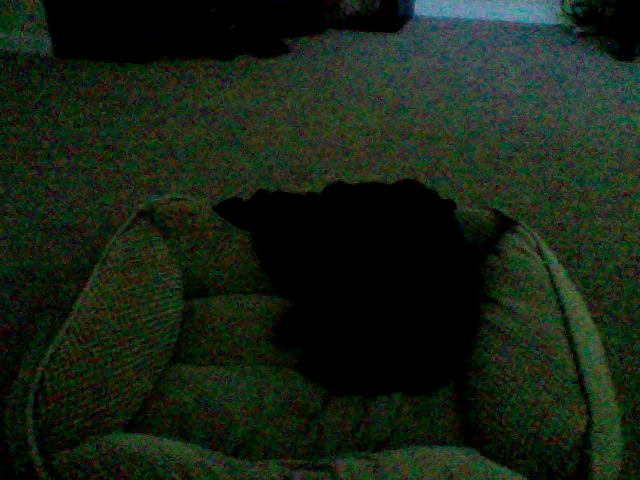
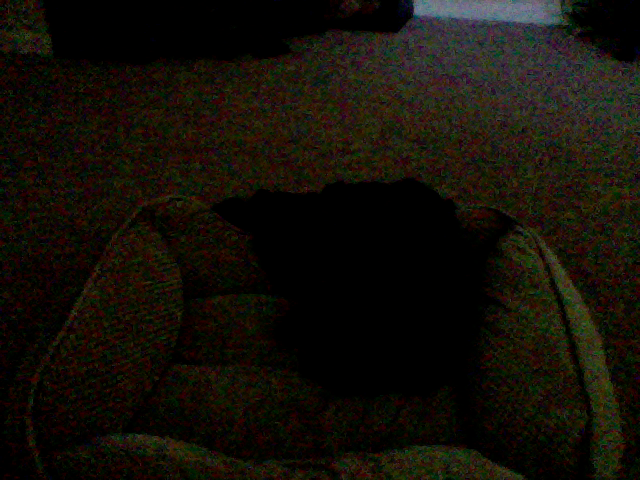
update at Month05Day08Time19:16

diff --git a/index.html b/index.html
@@ -39,8 +39,8 @@
       <!-- Example row of columns -->
       <div class="row">
         <div class="col-md-4">
-	<p>This picture was updated at Month05Day08Time19:15</p>
-		<img src="7_pic.png" />
+	<p>This picture was updated at Month05Day08Time19:16</p>
+		<img src="4_pic.png" />
         </div>
       </div>
 
